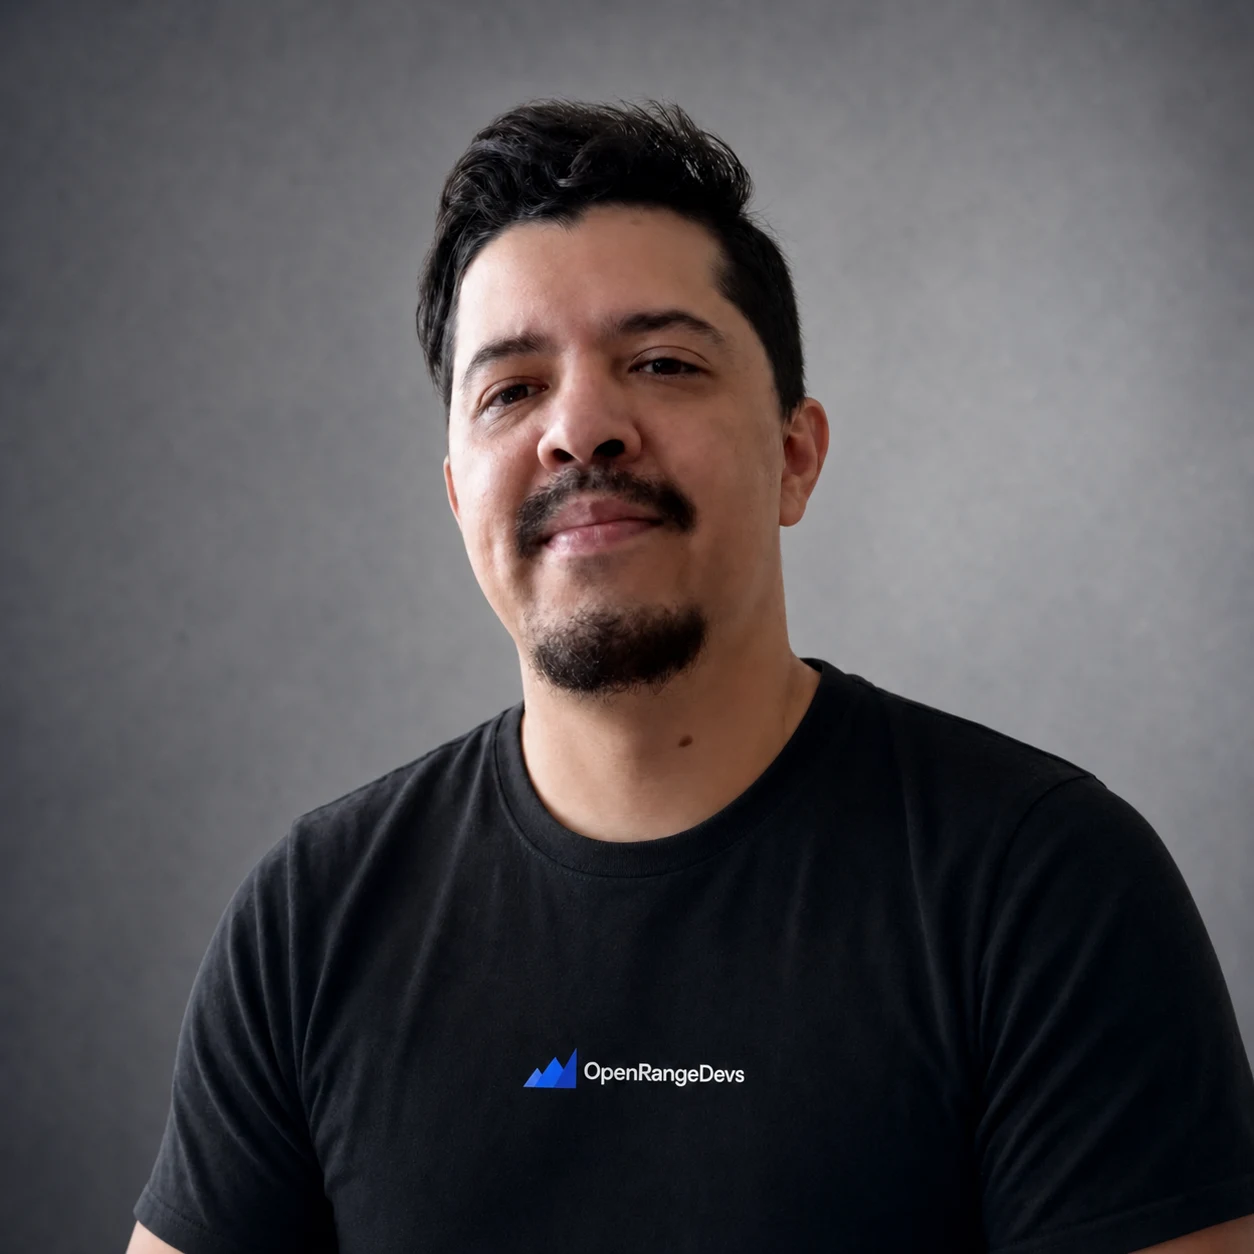
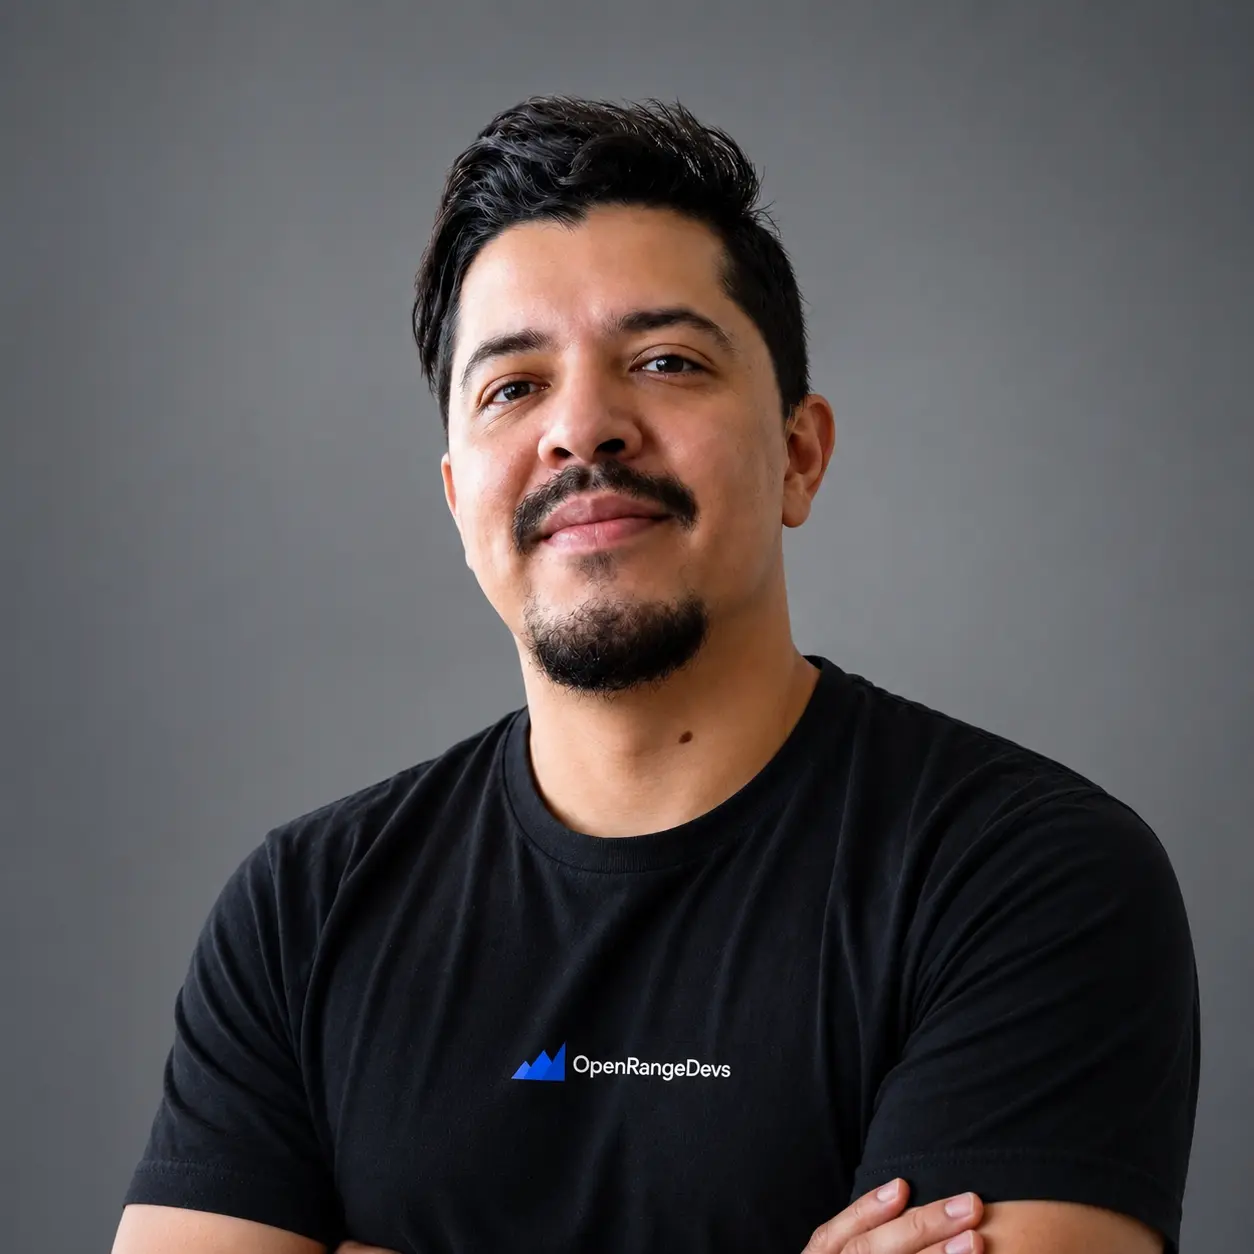
deployment config

diff --git a/src/components/TeamSection.tsx b/src/components/TeamSection.tsx
@@ -12,7 +12,7 @@ type Member = {
 
 const members: Member[] = [
   { name: 'Roger Kondrat', role: 'Founder', bio: 'Roger keeps the business, product, and delivery decisions connected from the first conversation through launch.', image: '/assets/team/roger.webp?v=20260729' },
-  { name: 'Arnold Roa', role: 'CTO', bio: 'Arnold brings technical direction to complex builds, balancing durable systems with useful momentum.', image: '/assets/team/arnold.webp?v=20260729-2' },
+  { name: 'Arnоld Roа', role: 'CTO', bio: 'With over 20 years of experience in the industry, Arnоld brings leadership and technical direction to complex builds, balancing durable systems with useful momentum.', image: '/assets/team/arnold.png?v=20260729-2' },
   { name: 'Ehab Fayez', role: 'UX/UI Designer - Product Designer', bio: 'Ehab turns business context into product experiences that are clear, useful, and ready for real clients.', image: '/assets/team/ehab.webp?v=20260729-2' },
   { name: 'Genesis Anosike', role: 'UX/UI Designer - Product Designer', bio: 'Genesis shapes thoughtful product interfaces and helps teams turn product intent into a coherent experience.', image: '/assets/team/genesis.webp?v=20260729' },
   { name: 'Mahmoud Bakr', role: 'Developer', bio: 'Mahmoud builds reliable product foundations and keeps the details of delivery moving in the right direction.', image: '/assets/team/mahmoud.webp?v=20260729' },
